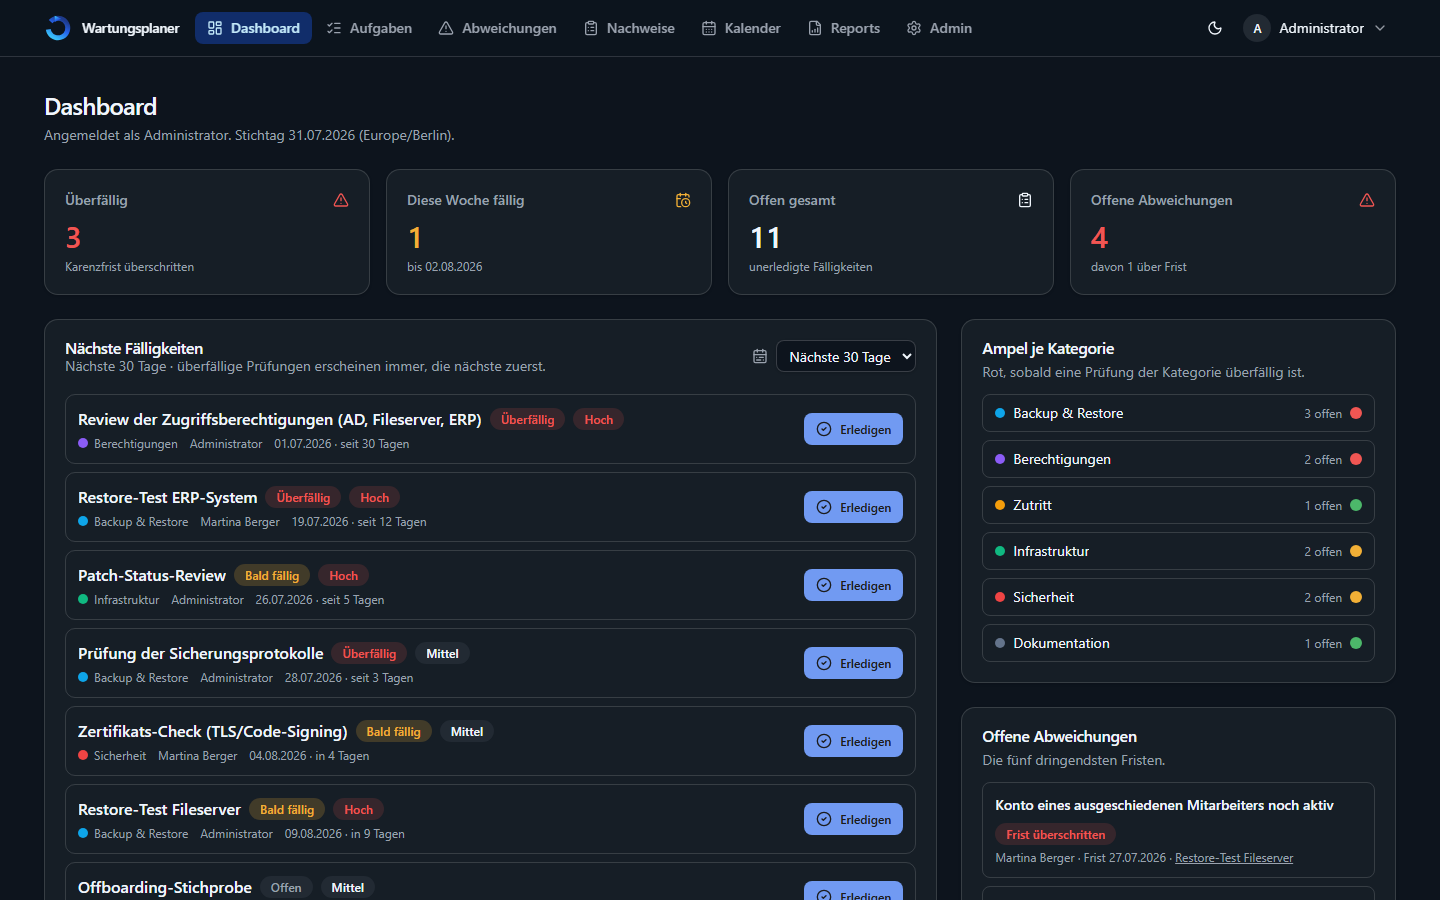
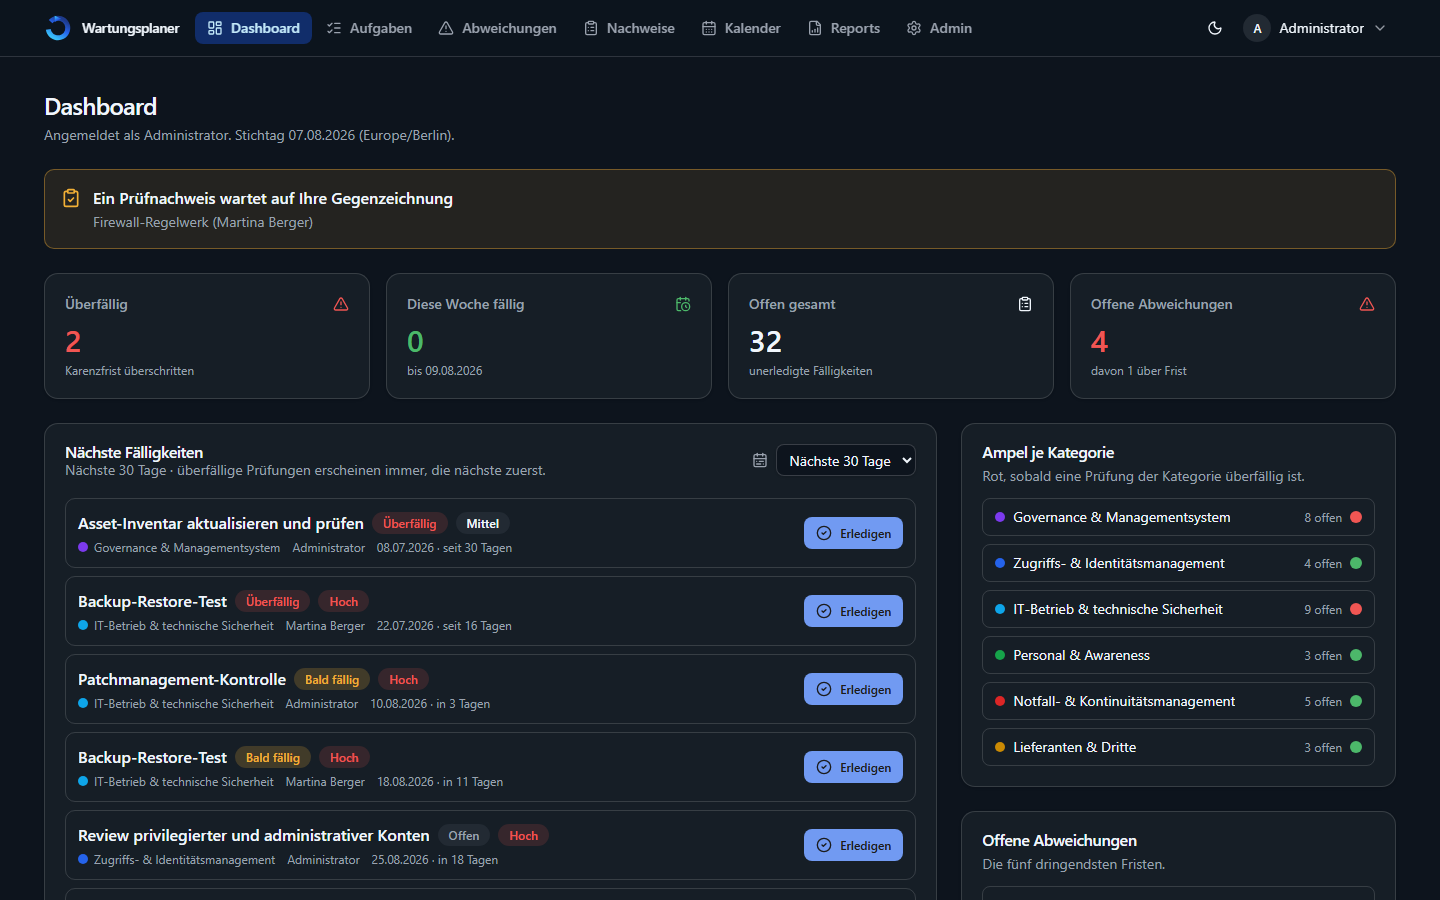
docs: bildschirmfotos auf den eingespielten pruefplan umgestellt
Alle acht Bilder neu aufgenommen. Sie zeigen jetzt den Bestand aus
beispiele/pruefplan/ mit echten Normbezuegen - A.8.20-8.22, VDA ISA 5.3 -
statt der erfundenen Aufgabenliste von frueher.

Die Demodaten legen zusaetzlich zwei ueberfaellige Termine und Pruefboegen
in allen drei Zustaenden an. Vorher war auf dem Dashboard alles im gruenen
Bereich und die Nachweisseite bis auf einen Eintrag leer - beides zeigte
gerade das nicht, wofuer die Anwendung da ist.

Nebenbei behoben: @eslint/js war auf Version 10 aufgeloest und verlangte
ESLint 10, festgelegt ist aber 9. npm ci brach damit in jeder sauberen
Umgebung ab, also auch im Containerbau und in der CI. Aufgefallen beim
Bau der Demo-Instanz.

diff --git a/scripts/demodaten.ts b/scripts/demodaten.ts
@@ -293,49 +293,102 @@ async function main() {
     angelegt++
   }
 
-  // --- Ein gegengezeichneter Prüfbogen ------------------------------------
-  // Genommen wird die Vorlage aus den Beispieldateien, nicht eine eigens
-  // gebaute: Was auf dem Bild steht, soll auch nach dem Einspielen dastehen.
-  const vorlage = await prisma.pruefbogenVorlage.findFirst({
-    where: { name: { contains: 'Rezertifizierung' } },
-    include: { punkte: { orderBy: { position: 'asc' } } },
-  })
+  // --- Zwei überfällige Termine -------------------------------------------
+  // Ein Bestand, in dem alles im grünen Bereich liegt, zeigt nicht, wofür
+  // die Anwendung da ist. Zwei Fälligkeiten stehen deshalb offen und über
+  // der Karenzfrist.
+  let ueberfaellig = 0
+  for (const aufgabe of aufgaben.slice(0, 2)) {
+    const faellig = addDays(heute, -(aufgabe.graceDays + 9))
+    const vorhanden = await prisma.occurrence.findFirst({
+      where: { taskId: aufgabe.id, dueDate: faellig },
+    })
+    if (vorhanden) continue
 
-  let bogenAngelegt = 0
-  if (vorlage?.taskId) {
+    await prisma.occurrence.create({
+      data: { taskId: aufgabe.id, dueDate: faellig, status: 'OPEN' },
+    })
+    ueberfaellig++
+  }
+
+  // --- Prüfbögen in allen drei Zuständen ----------------------------------
+  // Genommen werden die Vorlagen aus den Beispieldateien, nicht eigens
+  // gebaute: Was auf dem Bild steht, soll auch nach dem Einspielen dastehen.
+  //
+  // Drei Stände, damit die Nachweisseite ihre drei Bereiche zeigt: ein
+  // abgeschlossener Bogen, einer, der auf die Gegenzeichnung wartet, und
+  // ein eigener Entwurf.
+  const staende = [
+    {
+      suche: 'Rezertifizierung',
+      status: 'GEGENGEZEICHNET' as const,
+      erfasstVon: () => zweite.id,
+      bemerkung:
+        'Durchsicht mit dem Auszug vom Monatsersten. Ein Konto zum Entzug vorgemerkt.',
+    },
+    {
+      // Von der Kollegin vorgelegt – erscheint beim Administrator unter
+      // „Zur Gegenzeichnung“.
+      suche: 'Firewall',
+      status: 'VORGELEGT' as const,
+      erfasstVon: () => zweite.id,
+      bemerkung:
+        'Regelwerk vom Wochenanfang durchgesehen. Zwei Regeln ohne Antrag, siehe Abweichung.',
+    },
+    {
+      // Eigener Entwurf – erscheint unter „Meine offenen Nachweise“.
+      suche: 'Privilegierte Konten',
+      status: 'ENTWURF' as const,
+      erfasstVon: () => admin.id,
+      bemerkung: 'Auszug liegt vor, Rückmeldung der Fachbereiche steht noch aus.',
+    },
+  ]
+
+  let boegenAngelegt = 0
+  for (const stand of staende) {
+    const vorlage = await prisma.pruefbogenVorlage.findFirst({
+      where: { name: { contains: stand.suche } },
+      include: { punkte: { orderBy: { position: 'asc' } } },
+    })
+    if (!vorlage?.taskId) continue
+
+    const schonDa = await prisma.nachweis.findFirst({
+      where: { vorlageId: vorlage.id },
+    })
+    if (schonDa) continue
+
     const offene = await prisma.occurrence.findFirst({
       where: { taskId: vorlage.taskId, status: 'OPEN' },
       orderBy: { dueDate: 'asc' },
     })
-    const schonDa = await prisma.nachweis.findFirst({
-      where: { vorlageId: vorlage.id },
-    })
+    if (!offene) continue
 
-    if (offene && !schonDa) {
-      await prisma.nachweis.create({
-        data: {
-          vorlageId: vorlage.id,
-          occurrenceId: offene.id,
-          status: 'GEGENGEZEICHNET',
-          erfasstById: zweite.id,
-          erfasstAm: addDays(heute, -3),
-          vorgelegtAm: addDays(heute, -2),
-          geprueftById: admin.id,
-          geprueftAm: addDays(heute, -1),
-          bemerkung:
-            'Durchsicht mit dem Auszug vom Monatsersten. Ein Konto zum Entzug vorgemerkt.',
-          antworten: {
-            create: vorlage.punkte.map((punkt) => antwortZu(punkt, heute)),
-          },
+    const abgeschlossen = stand.status === 'GEGENGEZEICHNET'
+    const vorgelegt = abgeschlossen || stand.status === 'VORGELEGT'
+
+    await prisma.nachweis.create({
+      data: {
+        vorlageId: vorlage.id,
+        occurrenceId: offene.id,
+        status: stand.status,
+        erfasstById: stand.erfasstVon(),
+        erfasstAm: addDays(heute, -3),
+        vorgelegtAm: vorgelegt ? addDays(heute, -2) : null,
+        geprueftById: abgeschlossen ? admin.id : null,
+        geprueftAm: abgeschlossen ? addDays(heute, -1) : null,
+        bemerkung: stand.bemerkung,
+        antworten: {
+          create: vorlage.punkte.map((punkt) => antwortZu(punkt, heute)),
         },
-      })
-      bogenAngelegt = 1
-    }
+      },
+    })
+    boegenAngelegt++
   }
 
   console.log(
     `Demodaten ergänzt: ${erledigt} Durchführungen, ${angelegt} Abweichungen, ` +
-      `2 weitere Konten, ${bogenAngelegt} ausgefüllter Prüfbogen.`,
+      `${ueberfaellig} überfällige Termine, 2 weitere Konten, ` +
+      `${boegenAngelegt} Prüfbögen.`,
   )
 }
 
